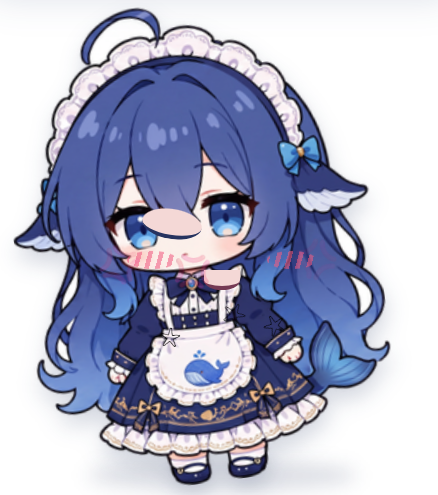
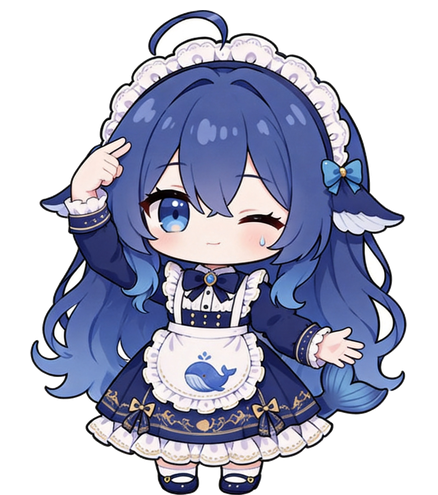
Add generated Ciallo character animation

diff --git a/src/renderer/app.js b/src/renderer/app.js
@@ -14,9 +14,12 @@ const providerLabel = document.querySelector("#provider-label");
 
 const behaviorApi = window.DeepFishBehaviors;
 const frameAliases = { dream: "sleep" };
+const frameSequences = {
+  ciallo: { names: ["ciallo", "ciallo-b"], interval: 280 }
+};
 const frameNames = [
   "neutral", "walk", "walk-b", "wash", "work", "coffee", "toy", "sleep", "hungry",
-  "sit", "pat", "feed", "shy", "trip", "cry", "think", "smug", "angry", "ciallo",
+  "sit", "pat", "feed", "shy", "trip", "cry", "think", "smug", "angry", "ciallo", "ciallo-b",
   "fly", "price", "panic", "rival", "shock", "pressure", "stranded", "stretch",
   "startle", "goAway"
 ];
@@ -100,6 +103,16 @@ function startFrameLoop(names, interval = 220) {
     index = (index + 1) % names.length;
     setFrame(names[index]);
   }, interval);
+}
+
+function playBehaviorFrames(name, duration) {
+  const sequence = frameSequences[name];
+  if (!sequence) {
+    playFrame(name, duration);
+    return;
+  }
+  startFrameLoop(sequence.names, sequence.interval);
+  frameTimer = setTimeout(() => stopFramePlayback(), duration);
 }
 
 for (const name of frameNames) {
@@ -197,7 +210,7 @@ function runBehavior(id, options = {}) {
   setScene(behavior.scene);
   setExpression(behavior.expression);
   animate(id, behavior.duration);
-  playFrame(id, behavior.duration);
+  playBehaviorFrames(id, behavior.duration);
   particles(behavior.icon, ["cry", "shock", "rival"].includes(id) ? 6 : 3);
   if (options.say !== false) say(behaviorApi.formatLine(id), options.label || behaviorLabels[id], Math.min(5200, behavior.duration + 1800));
   clearTimeout(sceneTimer);

diff --git a/scripts/prepare-generated-frame.py b/scripts/prepare-generated-frame.py
@@ -1,0 +1,89 @@
+"""Convert a white-background generated character image into an anchored pet frame."""
+
+from __future__ import annotations
+
+import argparse
+from pathlib import Path
+
+import cv2
+import numpy as np
+from PIL import Image
+
+
+def remove_border_background(image: Image.Image) -> Image.Image:
+    rgb = np.asarray(image.convert("RGB"))
+    channel_range = rgb.max(axis=2) - rgb.min(axis=2)
+    background_candidate = (rgb.min(axis=2) >= 215) & (channel_range <= 38)
+
+    _, labels = cv2.connectedComponents(background_candidate.astype(np.uint8), connectivity=8)
+    edge_labels = np.unique(
+        np.concatenate((labels[0], labels[-1], labels[:, 0], labels[:, -1]))
+    )
+    edge_labels = edge_labels[edge_labels != 0]
+    background = np.isin(labels, edge_labels)
+    alpha = np.where(background, 0, 255).astype(np.uint8)
+    alpha = cv2.morphologyEx(alpha, cv2.MORPH_CLOSE, np.ones((3, 3), np.uint8))
+    alpha = cv2.GaussianBlur(alpha, (0, 0), 0.55)
+
+    rgba = np.dstack((rgb, alpha))
+    rgba[alpha == 0, :3] = 0
+    return Image.fromarray(rgba, "RGBA")
+
+
+def fit_to_canvas(
+    image: Image.Image,
+    canvas_size: tuple[int, int],
+    max_content: tuple[int, int],
+) -> Image.Image:
+    alpha = np.asarray(image.getchannel("A"))
+    ys, xs = np.where(alpha > 8)
+    if not len(xs):
+        raise RuntimeError("No foreground found after background removal")
+
+    crop = image.crop((xs.min(), ys.min(), xs.max() + 1, ys.max() + 1))
+    scale = min(max_content[0] / crop.width, max_content[1] / crop.height)
+    size = (max(1, round(crop.width * scale)), max(1, round(crop.height * scale)))
+    crop = crop.resize(size, Image.Resampling.LANCZOS)
+
+    canvas = Image.new("RGBA", canvas_size, (0, 0, 0, 0))
+    x = (canvas_size[0] - crop.width) // 2
+    y = canvas_size[1] - crop.height
+    canvas.alpha_composite(crop, (x, y))
+    return canvas
+
+
+def make_motion_variant(frame: Image.Image) -> Image.Image:
+    """Create a subtle whole-body sway while keeping the foot anchor stable."""
+    return frame.rotate(
+        -1.2,
+        resample=Image.Resampling.BICUBIC,
+        center=(frame.width // 2, frame.height - 1),
+    )
+
+
+def main() -> None:
+    parser = argparse.ArgumentParser()
+    parser.add_argument("input", type=Path)
+    parser.add_argument("output", type=Path)
+    parser.add_argument("--width", type=int, default=438)
+    parser.add_argument("--height", type=int, default=495)
+    parser.add_argument("--max-width", type=int, default=400)
+    parser.add_argument("--max-height", type=int, default=485)
+    parser.add_argument("--alternate-output", type=Path)
+    args = parser.parse_args()
+
+    frame = fit_to_canvas(
+        remove_border_background(Image.open(args.input)),
+        (args.width, args.height),
+        (args.max_width, args.max_height),
+    )
+    args.output.parent.mkdir(parents=True, exist_ok=True)
+    frame.save(args.output, optimize=True)
+    if args.alternate_output:
+        args.alternate_output.parent.mkdir(parents=True, exist_ok=True)
+        make_motion_variant(frame).save(args.alternate_output, optimize=True)
+    print(args.output)
+
+
+if __name__ == "__main__":
+    main()

diff --git a/README.md b/README.md
@@ -13,7 +13,7 @@
 - 自动散步、洗碗、加班喝咖啡、抱鲸鱼玩偶、坐下和睡觉场景
 - 头发、脸蛋、腿部区域感应：卖萌、害羞、绊倒，连续绊倒后会拿手帕哭哭
 - 饥饿咕咕叫、震惊蘑菇云、双枪模式、飞行、涨价和模型梗台词
-- 随机闲置彩蛋与 29 张固定锚点 PNG 表情、道具和动作帧
+- 随机闲置彩蛋与 30 张固定锚点 PNG 表情、道具和动作帧
 - 监听 Windows 锁屏、解锁和系统恢复事件
 - 解锁后随机触发“伸懒腰”或“惊醒”
 - 内置聊天面板，保留最近十轮上下文
@@ -83,6 +83,12 @@ npm run pack
 - `npm run pack`：生成未安装目录，用于快速验证 Electron 打包
 - `npm run dist`：生成 NSIS 安装包和便携版
 
+可以用内置截图模式检查指定动作在真实透明窗口中的构图：
+
+```powershell
+.\node_modules\.bin\electron.cmd . --smoke-test --smoke-action=ciallo --smoke-dir=.\work\smoke-ciallo
+```
+
 打包产物位于 `dist/`。
 
 ## 项目结构
@@ -90,7 +96,7 @@ npm run pack
 ```text
 deepfish-desktop-pet/
 ├─ assets/                 # 原始立绘与固定锚点动作帧
-├─ scripts/                # 静态检查脚本
+├─ scripts/                # 静态检查与动作帧处理脚本
 ├─ src/
 │  ├─ main/                # 窗口、托盘、系统事件、模型请求、设置存储
 │  ├─ renderer/            # 桌宠、聊天与设置界面
@@ -102,6 +108,14 @@ deepfish-desktop-pet/
 ## 更换角色素材
 
 运行时会在 `assets/frames/` 中切换同尺寸、同锚点的透明 PNG，避免表情和道具随姿势发生错位。`frame-neutral.png` 是待机图，`frame-walk.png` 与 `frame-walk-b.png` 组成散步循环，其余 `frame-<动作>.png` 对应行为目录中的动作名称。替换角色时应成套重绘这些帧，并保持每张画布尺寸和脚底锚点一致；`assets/character.png` 保留为原始立绘与托盘图标来源。
+
+新动作素材应先生成完整角色白底图，确认脸、双手、头发、裙摆、鲸尾和双脚都完整，再转换为项目帧。开发依赖为 Pillow、OpenCV 和 NumPy：
+
+```powershell
+python scripts\prepare-generated-frame.py input.jpg assets\frames\frame-ciallo.png --alternate-output assets\frames\frame-ciallo-b.png
+```
+
+脚本会从画布边缘移除白底，将角色缩放到 `438 × 495` 透明画布，并统一为底部居中的脚底锚点。`--alternate-output` 只生成无部件拆分的轻微整体摆动；正式复杂动作应使用独立绘制的完整角色帧。多帧动作在 `src/renderer/app.js` 的 `frameSequences` 中登记，运行时按顺序切换整张图片。
 
 ## 隐私与安全
 
